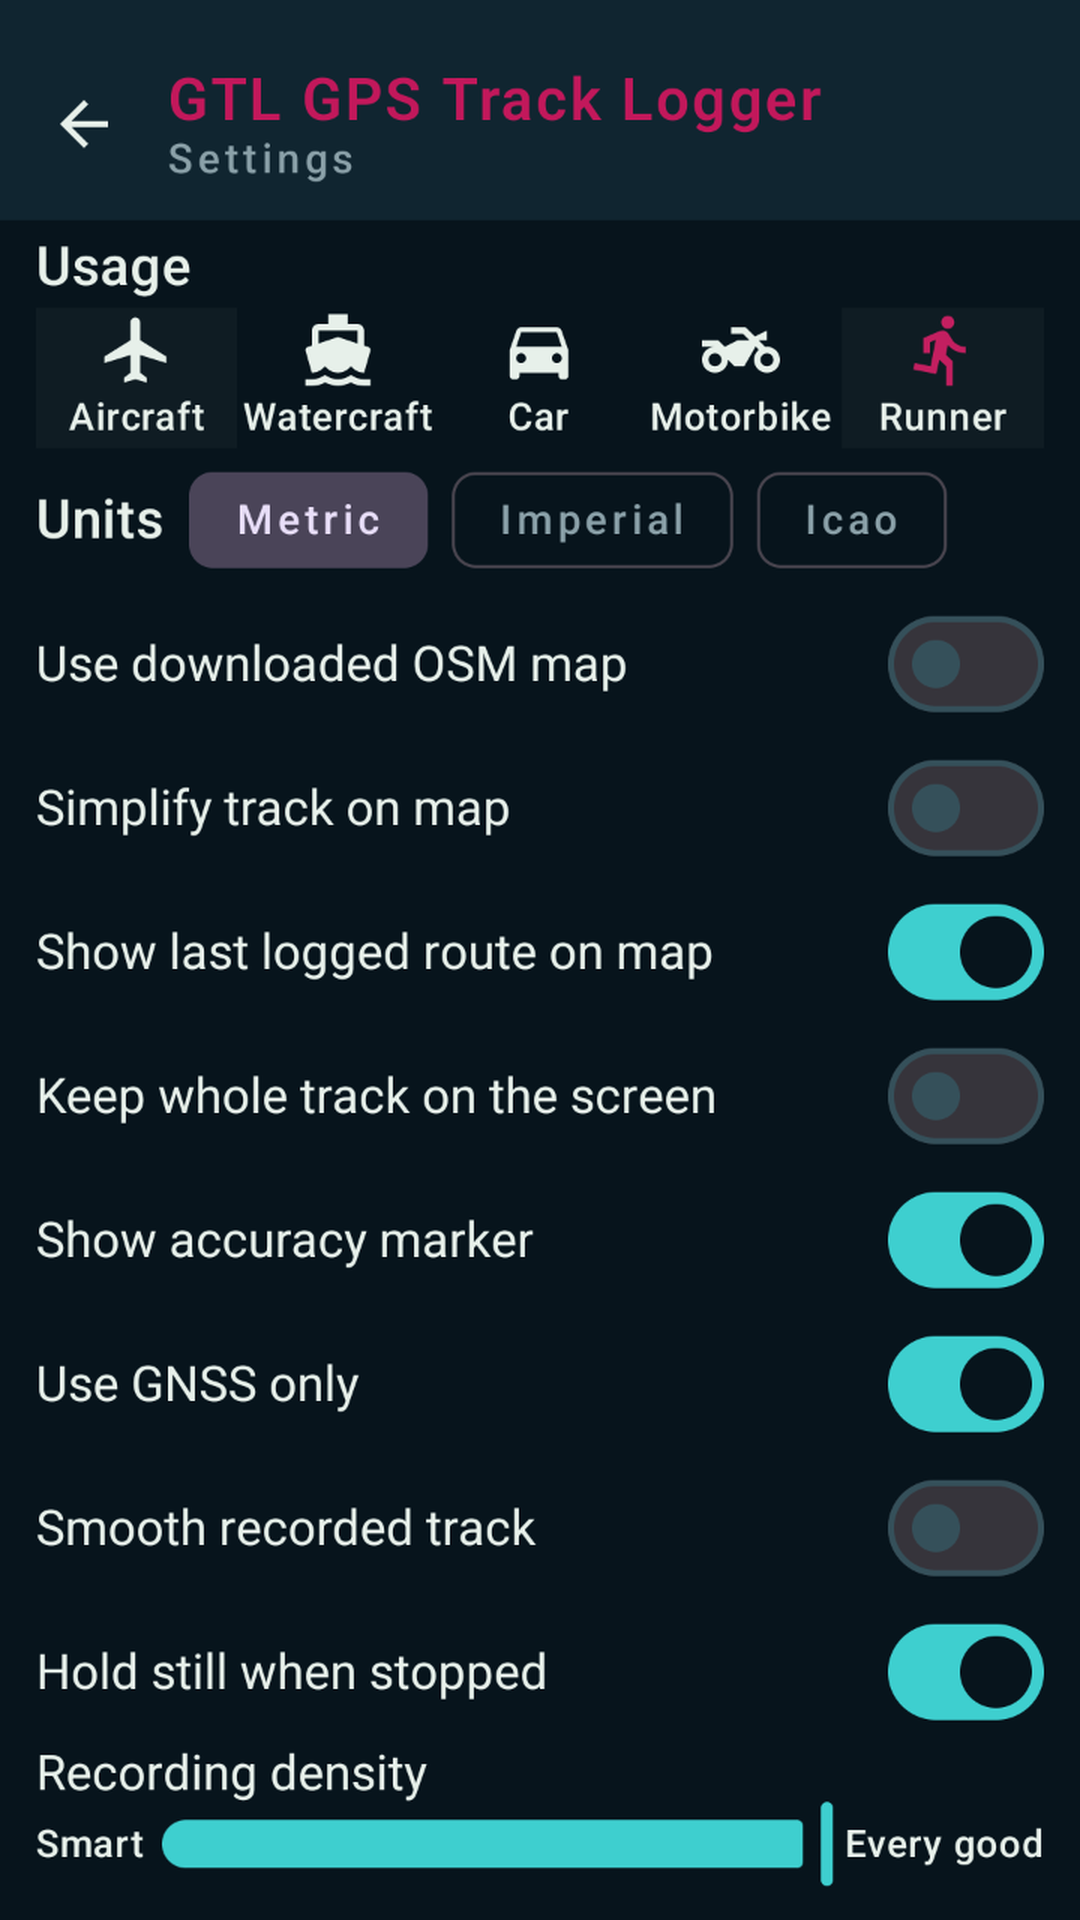
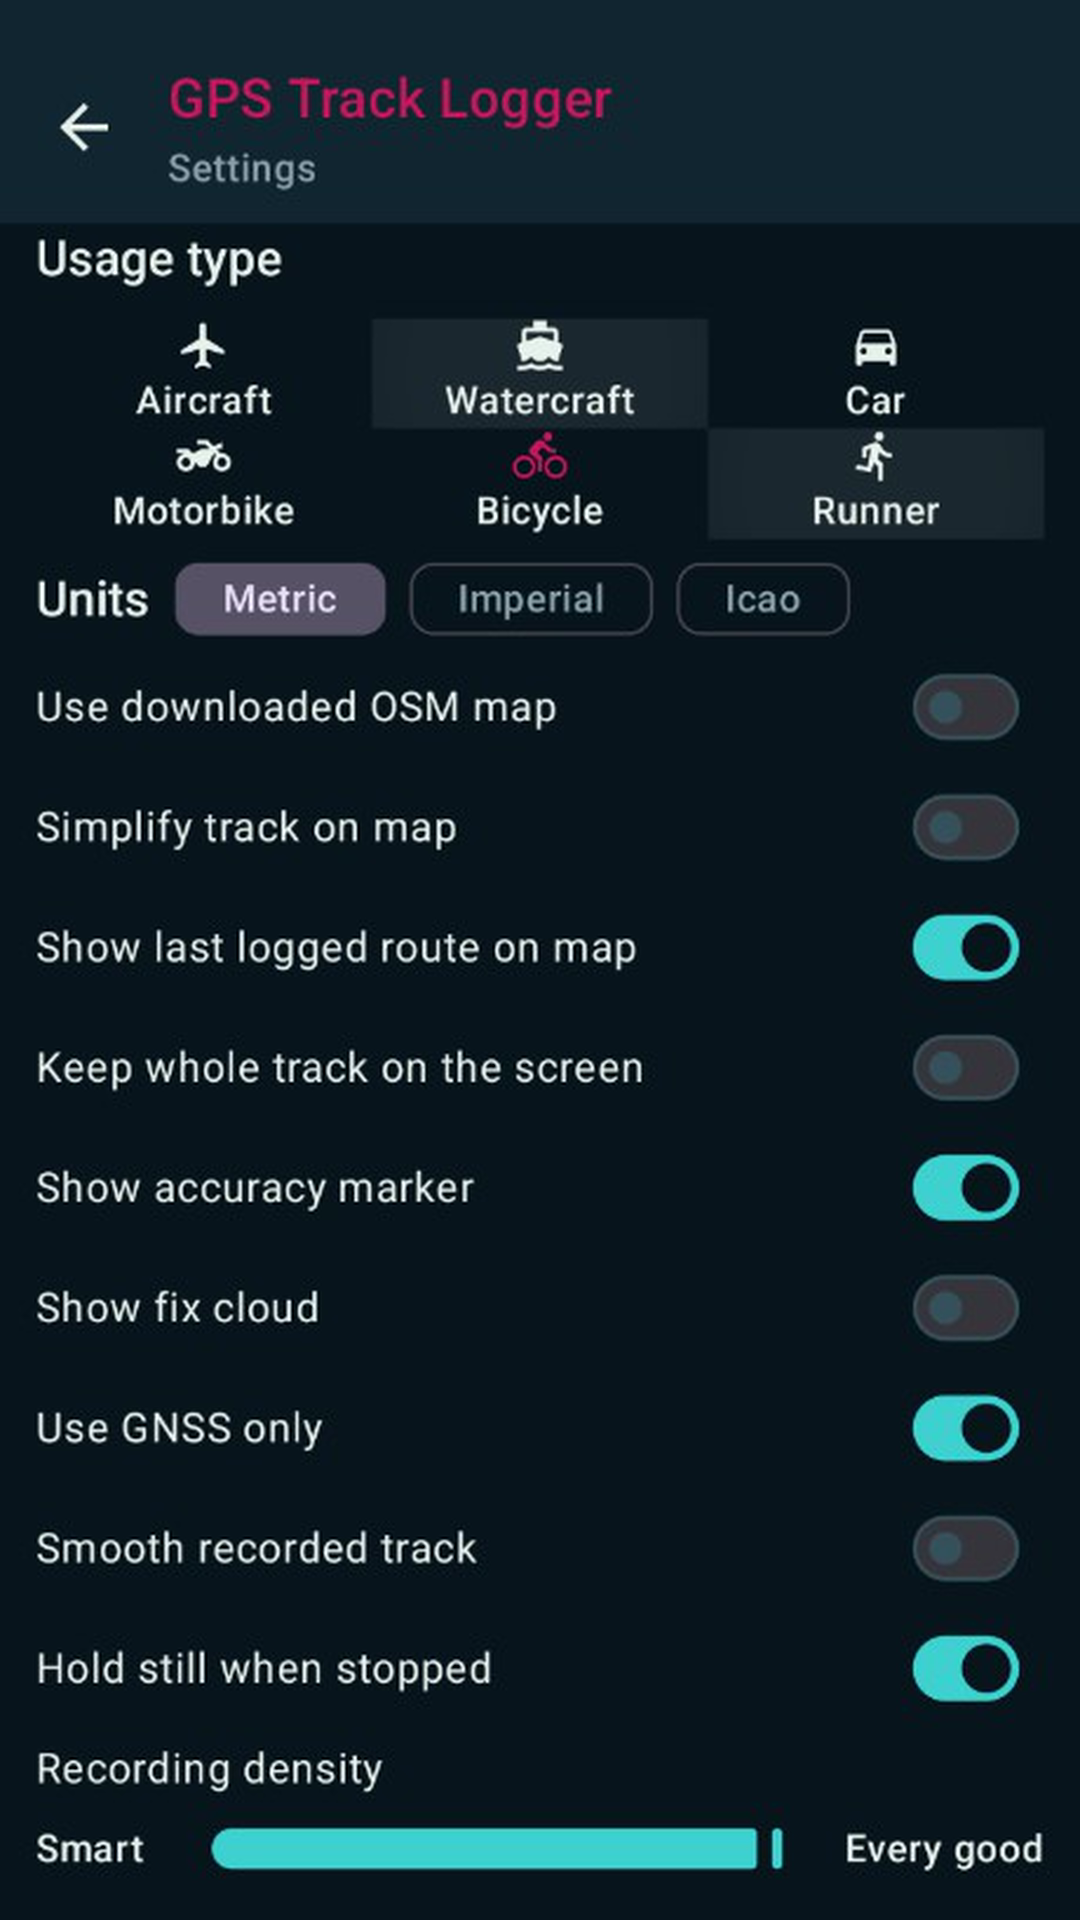
update: screenshot help, settings screenshot.

diff --git a/README-hu.md b/README-hu.md
@@ -387,7 +387,7 @@ Kotlin 2.2 · AGP 9.2 · Compose BOM 2025.12 · Room 2.7 · DataStore · Navigat
 - `map.png`, `tracking.png` — Térkép felvétel közben
 - `googleearth.png` — megosztott KMZ a Google Earth-ben
 - `compass.png`, `about.png`
-- `settings.png` — Beállítások Futóval, Csak GNSS-szel, rögzítés sűrűsége Minden jónál
+- `settings.png` — Beállítások hat használati móddal (Hajó kiválasztva), Pontfelhővel, Csak GNSS-szel, rögzítés sűrűsége Minden jónál
 - `saved-tracks.png` — Mentett útvonalak (kijelölés, megosztás, térképen)
 - `settings-density.png` — Régebbi Beállítások elrendezés egyszerűsítő / simító csúszkákkal (2.0.3)
 - `help.png` — Súgótémák (2.0.3)

diff --git a/README-en.md b/README-en.md
@@ -387,7 +387,7 @@ Engine entry points worth reading:
 - `map.png`, `tracking.png` — Map while recording
 - `googleearth.png` — shared KMZ in Google Earth
 - `compass.png`, `about.png`
-- `settings.png` — Settings with Runner, GNSS only, and recording density at Every good
+- `settings.png` — Settings with six usage types (Watercraft selected), Show fix cloud, GNSS only, and recording density at Every good
 - `saved-tracks.png` — Saved tracks (select, share, show on map)
 - `settings-density.png` — Older Settings layout with simplify / smoothing sliders (2.0.3)
 - `help.png` — Help topics (2.0.3)
